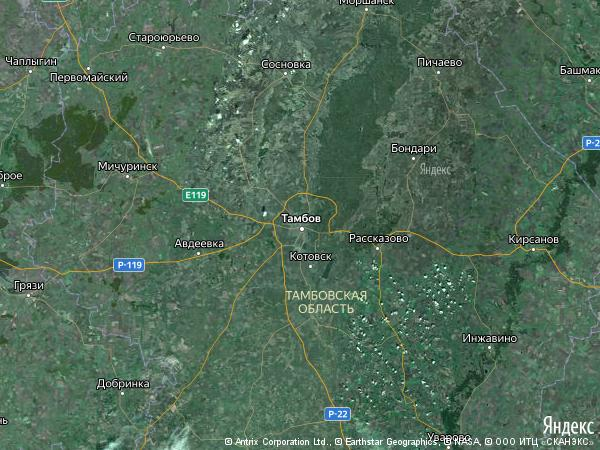
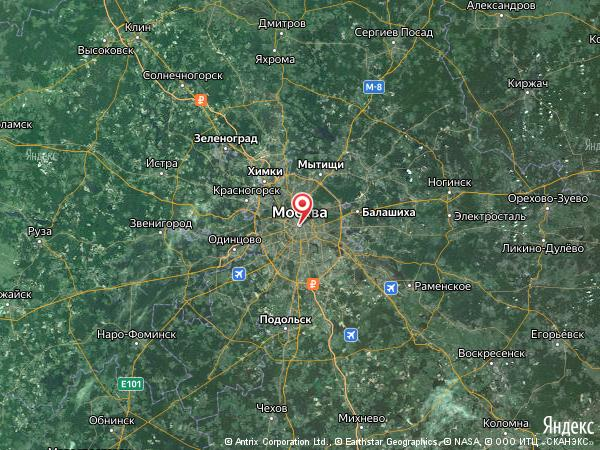
five_and_six

diff --git a/solution.py b/solution.py
@@ -13,14 +13,33 @@ class Maps(QMainWindow):
         self.x = 52.73169
         self.y = 41.44326
         self.mash = 8
+        self.mesto = ''
         self.typ = 'map'
         self.izobrazhenie()
         self.shema.clicked.connect(self.map)
         self.sputn.clicked.connect(self.sput)
         self.gibr.clicked.connect(self.gibrid)
+        self.isk.clicked.connect(self.poisk)
 
     def map(self):
         self.typ = 'map'
+        self.izobrazhenie()
+
+    def poisk(self):
+        text = self.lineEdit.text()
+        url = 'http://geocode-maps.yandex.ru/1.x/'
+        params = {
+            'apikey': '40d1649f-0493-4b70-98ba-98533de7710b',
+            'geocode': f'{text}',
+            'format': 'json'
+        }
+        response = requests.get(url, params=params)
+        response = response.json()
+        coordination = response['response']['GeoObjectCollection']['featureMember'][0]['GeoObject'][
+            'Point']['pos'].split()
+        self.x = coordination[1]
+        self.y = coordination[0]
+        self.mesto = f'{self.y},{self.x},pm2rdm'
         self.izobrazhenie()
 
     def sput(self):
@@ -61,7 +80,8 @@ class Maps(QMainWindow):
 
     def izobrazhenie(self):
         url = "http://static-maps.yandex.ru/1.x/"
-        params = {'ll': f'{self.y},{self.x}', 'z': f'{self.mash}', 'l': f'{self.typ}'}
+        params = {'ll': f'{self.y},{self.x}', 'z': f'{self.mash}', 'l': f'{self.typ}',
+                  'pt': self.mesto}
         response = requests.get(url, params=params).content
 
         with open("карта.png", "wb") as file:
